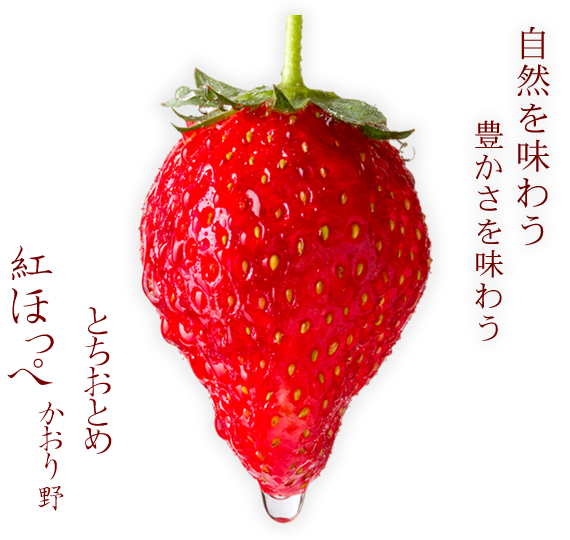
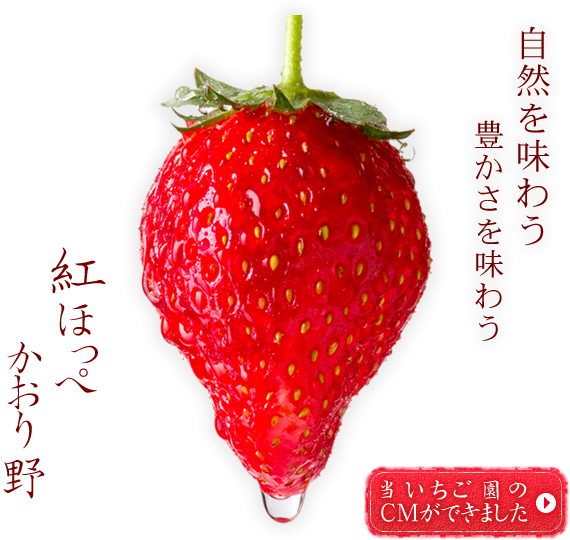
CM更新

Changed region(s): [[0.0, 0.4444, 0.2088, 0.9481], [0.6263, 0.8593, 1.0, 1.0]]

diff --git a/web/index.html b/web/index.html
@@ -21,6 +21,8 @@ if ((navigator.userAgent.indexOf('iPhone') > 0 && navigator.userAgent.indexOf('i
 }
 </script>
 
+<link rel="stylesheet" href="js/lightbox/css/ceebox.css" type="text/css" media="screen">
+
 </head>
 <body>
 <!--header-->
@@ -52,7 +54,7 @@ if ((navigator.userAgent.indexOf('iPhone') > 0 && navigator.userAgent.indexOf('i
 <!--top-->
 <div class="contents-bgstart" id="top">
   <div class="contents-inbox clearfix">
-    <p class="line_center"><img src="img/top-mainimg.png" alt="津留邦政いちご園" width="570" height="540"></p>
+    <p class="line_center ceebox"><a href="http://www.youtube.com/watch?v=I8I8PZ2jPuY" title="津留邦政いちご園（多分）公式CM" ><img src="img/top-mainimg.png" alt="津留邦政いちご園" width="570" height="540"></a></p>
   </div>
 </div>
 <!--top-->
@@ -66,7 +68,7 @@ if ((navigator.userAgent.indexOf('iPhone') > 0 && navigator.userAgent.indexOf('i
         <div id="gari-left"><img src="img/concept-img02.jpg" width="185" height="124"></div>
         <div id="gari-right">
           <p class="margin_b15px">有機質の栄養をたっぷり含んだ土の力でいちごを健康的に育てるために、津留邦政いちご園では<span class="font_bold">土耕栽培</span>にこだわっていちごを育てています。</p>
-           <p>この土から育ついちごは有名ブランド<strong>「かおり野」「紅ほっぺ」「とちおとめ」</strong>。大地の力をたっぷり吸った大粒でとても甘い当園のいちごは、贈答用の品としても大変ご好評を頂いています。</p></div>
+           <p>この土から育ついちごは有名ブランド<strong>「かおり野」「紅ほっぺ」</strong>。大地の力をたっぷり吸った大粒でとても甘い当園のいちごは、贈答用の品としても大変ご好評を頂いています。</p></div>
       </div>
 
     <!--contact-->
@@ -456,6 +458,20 @@ _gaq.push(['_trackPageview']);
   var s = document.getElementsByTagName('script')[0]; s.parentNode.insertBefore(ga, s);
 })();
 </script>
+
+
+
+<!--lightbox-->
+<script type="text/javascript" src="js/lightbox/js/jquery.swfobject.js"></script>
+<script type="text/javascript" src="js/lightbox/js/jquery.ceebox.js"></script>
+<script type="text/javascript">
+$(document).ready(function(){
+$(".contents-inbox").ceebox();
+});
+</script>
+
+
+
 <!--mail-->
 <!--
 <link rel="stylesheet" href="mailform/mailform.css" type="text/css">

diff --git a/web/sp/concept.html b/web/sp/concept.html
@@ -52,9 +52,18 @@
 <div class="margin_b20px"><h2><img src="img/sp-concept01.png" alt="美味しさの秘密" width="300" height="196"></h2></div>
 <p class="margin_b40px">"豊かさを味わう"という時代のニーズにお答えする為、肥料は、油粕、米ヌカ、魚粉等12種類に及ぶ有機質を使用し、いちごが健康に育つ様に、黒砂糖、ニッケ、イオウ等 自然界に存在するものを散布しております。 早朝より手摘みしたいちごの中から、一粒、一粒良いものだけを、厳選してお届け致します。</p>
 
+
+
+
 <img src="img/sp-concept-img02.jpg" width="150" height="101" class="photo_left">
 <p class="margin_b30px">有機質の栄養をたっぷり含んだ土の力でいちごを健康的に育てるために、津留邦政いちご園では<span class="font_bold">土耕栽培</span>にこだわっていちごを育てています。<br>
-  この土から育ついちごは有名ブランド<strong>「かおり野」「紅ほっぺ」「とちおとめ」</strong>。大地の力をたっぷり吸った大粒でとても甘い当園のいちごは、贈答用の品としても大変ご好評を頂いています。</p>
+  この土から育ついちごは有名ブランド<strong>「かおり野」「紅ほっぺ」</strong>。大地の力をたっぷり吸った大粒でとても甘い当園のいちごは、贈答用の品としても大変ご好評を頂いています。</p>
+
+
+
+<p class="line_center margin_b15px"><a href="http://www.youtube.com/watch?v=I8I8PZ2jPuY" target="_blank"><img src="img/sp-cmbtn.png" alt="津留邦政いちご園のCM" width="208" height="80"></a></p>
+
+
 </div>
 
 

diff --git a/web/sp/index.html b/web/sp/index.html
@@ -42,10 +42,12 @@
 
 <!--top-->
 <div>
-<p class="line_center margin_b15px"><img src="img/sp-top01.png" alt="津留邦政いちご園" width="300" height="229"></p>
+<p class="line_center"><img src="img/sp-top01.png" alt="津留邦政いちご園" width="300" height="229"></p>
 </div>
 
-
+<div>
+<p class="line_center margin_b15px"><a href="http://www.youtube.com/watch?v=I8I8PZ2jPuY" target="_blank"><img src="img/sp-cmbtn.png" alt="津留邦政いちご園のCM" width="208" height="80"></a></p>
+</div>
 
 <div class="clearfix">
 <div class="g-plusone button_google" data-size="medium"></div>
